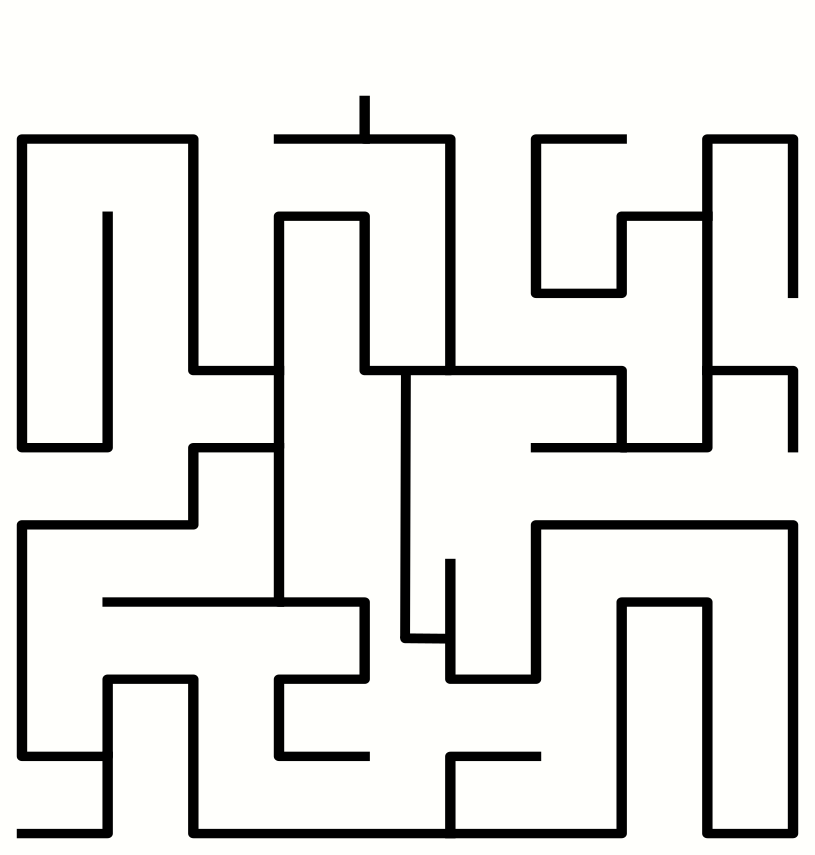
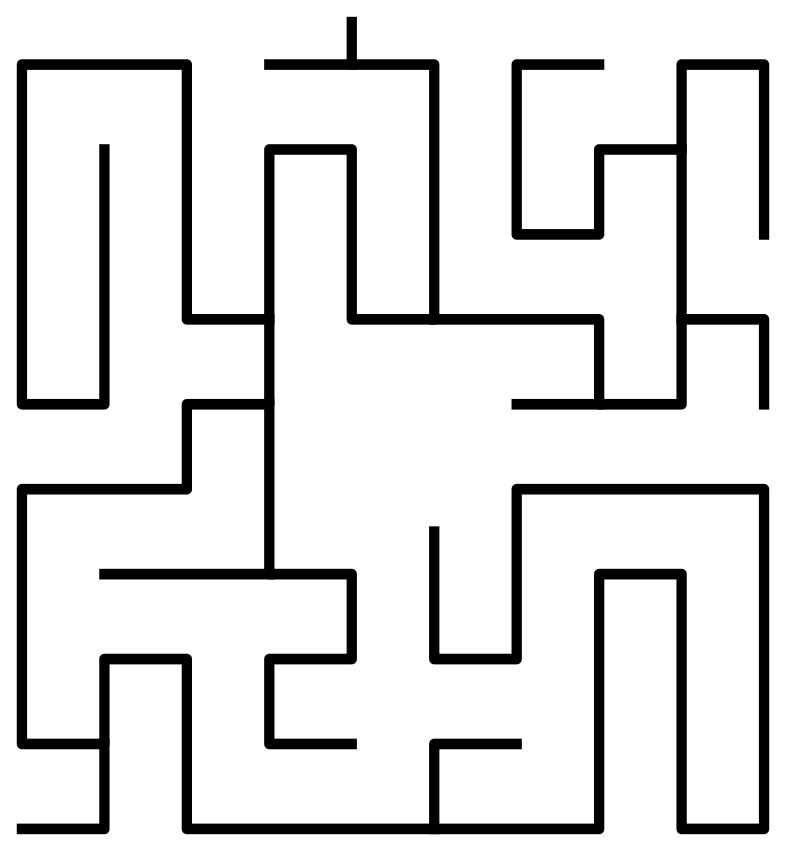
work in progress: cleanup intersections

diff --git a/src/DisplayImage.cpp b/src/DisplayImage.cpp
@@ -1,9 +1,11 @@
-/**
- * Code for thinning a binary image using Zhang-Suen algorithm.
+
+/*
+ * DisplayImage.c
  *
- * Author:  Nash (nash [at] opencv-code [dot] com)
- * Website: http://opencv-code.com
+ *  Created on: Aug 2, 2018
+ *      Author: freaf87
  */
+#include "DisplayImage.h"
 #include "opencv2/core/core.hpp"
 #include "opencv2/highgui/highgui.hpp"
 #include "opencv2/imgproc/imgproc.hpp"
@@ -18,26 +20,30 @@
 #include <math.h>
 
 #define MEAS_TIME 1
-#define DEBUG 1
+#define DEBUG 0
 #define PI 3.14159265
 
 using namespace cv;
 using namespace std;
 
+struct SortXClass {
+   bool operator() (Point2f pt1, Point2f pt2) { return (pt1.x < pt2.x);}
+} sortXCoord;
 
-struct myclass {
-   bool operator() (Point pt1, Point pt2) { return (pt1.x < pt2.x);}
-} myobject;
+struct SortYClass {
+   bool operator() (Point2f pt1, Point2f pt2) { return (pt1.y < pt2.y);}
+} sortYCoord;
+
+
+
 
 void thinning(const cv::Mat& src, cv::Mat& dst);
 void thinningIteration(cv::Mat& img, int iter);
 bool isVertexConnected(Mat& m, Point vertex1, Point vertex2, int *distance, bool debug);
 
-
-
 class Graph
 {
-   unordered_map<int, const unordered_map<int, int>> vertices;
+   unordered_map<int, unordered_map<int, int>> vertices;
 
 public:
    void add_vertex(int name, const unordered_map<int, int>& edges)
@@ -46,8 +52,13 @@ public:
       vertices.insert(unordered_map<int, const unordered_map<int, int>>::value_type(name, edges));
    }
 
+   unordered_map<int, unordered_map<int, int>> getVertices(void)
+   {
+      return this->vertices;
+   }
+
    vector<int> shortest_path(int start, int finish)
-          {
+   {
       // Second arguments -> distances
       // Find the smallest distance in the already in closed list and push it in -> previous
       unordered_map<int, int> distances;
@@ -116,18 +127,24 @@ public:
       }
 
       return path;
-   }
+    }
 };
 /* Global Variables */
 Mat src;
 
 int main()
 {
+   /* Initializing and Solving the Maze*/
+   int init_node = 5;
+   int dest_node = 7;
+   Graph g;
+   int seq = 0;
+
 #ifdef MEAS_TIME
    const int64 start = getTickCount();
 #endif
    //namedWindow("sourceWindow", WINDOW_NORMAL );
-   src = cv::imread("/home/freaf87/Workspaces/eclipse-workspace/DisplayImage/image/maze_final.png");
+   src = cv::imread("/home/freaf87/Workspaces/eclipse-workspace/DisplayImage/image/maze1.png");
    if (!src.data)
       return -1;
 
@@ -143,7 +160,7 @@ int main()
 #endif
    for( size_t i = 0; i < corners.size(); i++ )
    {
-#if DEBUG
+#if 1
       char label[12];
       sprintf(label, "%d", (int)i);
       putText(src, label, corners[i], FONT_HERSHEY_PLAIN, 1.0, CV_RGB(0,0,255), 2.0);
@@ -162,13 +179,6 @@ int main()
    imshow("Skeleton Image", skel );
 #endif
 
-   /* Initializing and Solving the Maze*/
-   int init_node = 8;
-   int dest_node = 61;
-
-   Graph g;
-   int seq = 0;
-
    for( int i = 0; i < (int)corners.size(); i++ )
    {
       unordered_map<int, int> map;
@@ -176,17 +186,20 @@ int main()
       {
          int dist = 0;
          bool debug = false;
-
-         if(i==5 && j==1) debug = true;
+#if 0
+         if(i==0 && j==4) debug = true;
          else debug = false;
+#endif
+
          bool isCon = isVertexConnected(skel,corners[i],corners[j],&dist, debug);
+
 #if DEBUG
          if(isCon == true) cout << i << " <--> " << j << endl;
          else cout << i << " --- " << j << endl;
 #endif
          if (dist > 0) map.insert({j,dist});
       }
-#if 0
+#if 1
       cout << "g.add_vertex(" << i << ", {" ;
       for(auto it = map.begin(); it !=  map.end(); it++) cout << "{" << it->first << "," << it->second << "}";
       cout << "}" << endl;
@@ -196,14 +209,100 @@ int main()
 
    cout << "As initial node: " << init_node << endl;
    cout << "As goal node: " << dest_node << endl;
+   cout << "Result: " << endl;
+   vector<int> FoundPATH = g.shortest_path(init_node, dest_node);
+   FoundPATH.push_back(init_node); /* Append last element to List */
 
-   for (int vertex : g.shortest_path(init_node, dest_node))
+   if(!FoundPATH.empty())
    {
-      cout << "Solution path from goal sequence : " << seq << " Node : " << vertex << endl;
-      seq++;
+      for (int vertex : FoundPATH)
+      {
+         cout << "Solution path from goal sequence : " << seq << " Node : " << vertex << endl;
+         seq++;
+      }
+   }
+   else
+   {
+      cout << "Path not found between vertex " << init_node << " and vertex " << dest_node << endl;
+      return -1;
    }
 
-   cout << "Solution path from goal sequence : " << seq << " Node : " << init_node << endl;
+
+   seq = 0;
+   for (int vertex : FoundPATH)
+   {
+      try
+      {
+         int nextVertex = FoundPATH.at(seq+1);
+         unordered_map<int, unordered_map<int, int>> ConnectionGraph;
+         ConnectionGraph = g.getVertices();
+         unordered_map<int, int>& map1 = ConnectionGraph[vertex];
+         unordered_map<int, int>& map2 = ConnectionGraph[nextVertex];
+
+#if 0
+         std::cout << "map1 contains:";
+          for ( auto it = map1.begin(); it != map1.end(); ++it )
+            std::cout << " " << it->first << ":" << it->second;
+          std::cout << std::endl;
+
+          std::cout << "map2 contains:";
+           for ( auto it = map2.begin(); it != map2.end(); ++it )
+             std::cout << " " << it->first << ":" << it->second;
+           std::cout << std::endl;
+           cout << "**********************************************" << endl;
+#endif
+
+           for ( auto it = map1.begin(); it != map1.end(); ++it )
+           {
+
+              if (map2.find(it->first) != map2.end())
+              {
+                 int direction;
+                 int CommonNode = it->first;
+                 vector<cv::Point> VertCoord(3);
+
+                 VertCoord[0] = corners[vertex];
+                 VertCoord[1] = corners[CommonNode];
+                 VertCoord[2] = corners[nextVertex];
+
+                 /* "3 eck-verbindung2" found. First find middle Point and decide if node is redundant or T-intersection */
+                 float XVals[] = {corners[vertex].x, corners[CommonNode].x, corners[nextVertex].x};
+                 float YVals[] = {corners[vertex].y, corners[CommonNode].y, corners[nextVertex].y};
+
+                 /* Get direction & sort to get mittelpunkt*/
+                 if( (((*std::max_element(XVals,XVals+3)) - (*std::max_element(XVals,XVals+3))) - ((*std::min_element(XVals,XVals+3)) - (*std::min_element(XVals,XVals+3))))
+                      > (((*std::max_element(YVals,YVals+3)) - (*std::max_element(YVals,YVals+3))) - ((*std::min_element(YVals,YVals+3)) - (*std::min_element(YVals,YVals+3))))
+                 )
+                 {
+                    direction = horizontal;
+
+                 }
+                 else
+                 {
+                    direction = vertical;
+                 }
+
+
+                 cout << vertex << " --> " << nextVertex << endl;
+                 cout << "Dir: " << direction << endl;
+                 cout << "**********************************************" << endl;
+
+              }
+              else
+              {
+                 /* Not found */
+              }
+
+           }
+
+         seq++;
+      } catch (std::out_of_range)
+      {
+         cout << "Last index reached..." << endl;
+      }
+   }
+
+
 
 
 
@@ -248,10 +347,11 @@ bool isVertexConnected(Mat& m, Point vertex1, Point vertex2, int *distance, bool
    Canny(croppedImage, dst, 50, 200, 3);
    cvtColor(dst, cdst, CV_GRAY2BGR);
    vector<Vec4i> lines;
-   HoughLinesP(dst, lines, 1, CV_PI/180, 10, (int)(Vertexdist*0.5), 4 );
-
+   HoughLinesP(dst, lines, 1, CV_PI/180, 10, (int)(Vertexdist*2/3), 4 );
+#if DEBUG
    if(debug)
       imshow("Debug Image", cdst );
+#endif
 
    double maxDistance = 0;
    for( size_t i = 0; i < lines.size(); i++ )
@@ -275,8 +375,8 @@ bool isVertexConnected(Mat& m, Point vertex1, Point vertex2, int *distance, bool
    Houghpts[1] = HoughP2;
 
    /* sort Point vectors. Smaller x coordinate first */
-   sort(Inputpts.begin(), Inputpts.end(), myobject);
-   sort(Houghpts.begin(), Houghpts.end(), myobject);
+   sort(Inputpts.begin(), Inputpts.end(), sortXCoord);
+   sort(Houghpts.begin(), Houghpts.end(), sortXCoord);
 
    /* compute gradient of HoughLine and input Vertex */
    float gradHough,gradInputPoint;

diff --git a/src/DisplayImage.h b/src/DisplayImage.h
@@ -1,0 +1,21 @@
+/*
+ * DisplayImage.h
+ *
+ *  Created on: Aug 2, 2018
+ *      Author: freaf87
+ */
+
+#ifndef SRC_DISPLAYIMAGE_H_
+#define SRC_DISPLAYIMAGE_H_
+
+enum orientation
+{
+   horizontal,
+   vertical
+};
+
+
+
+
+
+#endif /* SRC_DISPLAYIMAGE_H_ */
